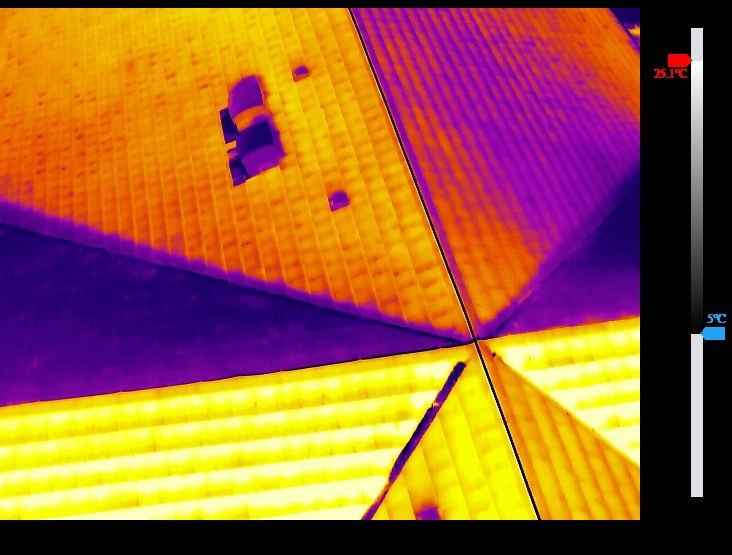
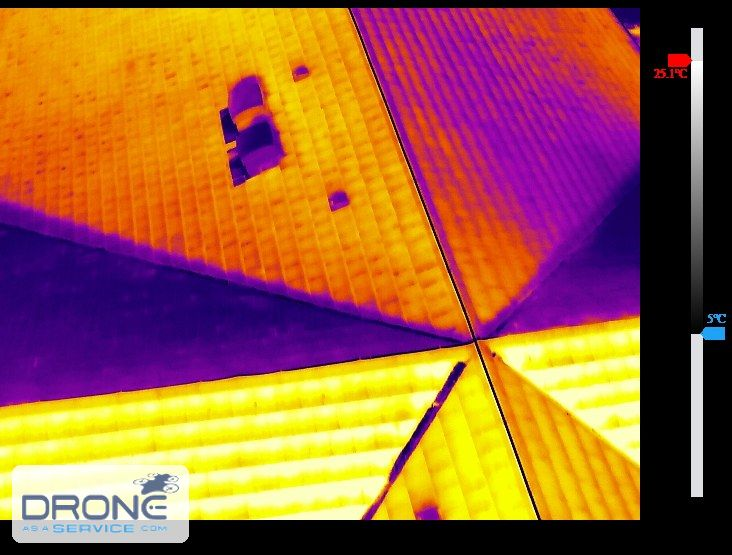
Add files via upload

Changed region(s): [[0.0, 0.827, 0.2705, 0.9802]]

diff --git a/index.html b/index.html
@@ -21,7 +21,7 @@ header .sub{font-size:12px;opacity:.85}
 .item{display:flex;gap:10px;padding:10px 16px;border-top:1px solid #eee;cursor:pointer;align-items:flex-start}
 .item:hover{background:#eef2f8}
 .num{flex:0 0 26px;height:26px;border-radius:50%;background:#c00000;color:#fff;font-weight:700;font-size:13px;display:flex;align-items:center;justify-content:center}
-.num.off{background:#8c8c8c}
+.num.off{background:#8c8c8c}.num.gr{background:#b8860b}
 .item b{font-size:13px;display:block}
 .item span{font-size:12px;color:#555}
 .status{display:inline-block;margin-top:4px;font-size:11px;padding:1px 7px;border-radius:10px;border:1px solid}
@@ -47,6 +47,14 @@ header .sub{font-size:12px;opacity:.85}
 #legend .info{margin-top:5px;color:#555}
 #legend .more{color:#1F3864;cursor:pointer;text-decoration:underline}
 #about{display:none;margin-top:6px;line-height:1.4;color:#333}
+#brand{left:50%;top:10px;transform:translateX(-50%);padding:5px 10px;z-index:700}
+#brand img{width:130px;display:block}
+.coord{font-size:12px;background:#f3f4f6;border:1px solid #e1e3e8;border-radius:6px;padding:6px 8px;margin:6px 0;line-height:1.5;color:#333}
+.coord a,.coord span.cp{color:#1F3864;cursor:pointer;text-decoration:underline;margin-right:8px}
+.coord small{display:block;color:#666;margin-top:2px}
+.cam{width:12px;height:12px;border-radius:50%;background:#1F3864;border:2px solid #fff;box-shadow:0 0 3px rgba(0,0,0,.7)}
+.lyr{margin-top:6px;display:flex;align-items:center;gap:6px;color:#333}
+.tag.cm{color:#1F3864;border-color:#1F3864}
 #north{right:12px;top:12px;text-align:center;font-weight:700;color:#1F3864;padding:6px 9px;line-height:1.1}
 #scale{right:12px;bottom:14px;padding:6px 10px}
 #scale .sb{height:6px;border:2px solid #1d1d1b;border-top:none;margin-top:3px}
@@ -58,6 +66,7 @@ header .sub{font-size:12px;opacity:.85}
 #lightbox img{max-width:92vw;max-height:84vh;border-radius:4px}
 #lightbox div{color:#fff;font-size:13px;margin-top:8px}
 @media (max-width:760px){
+ #brand{display:none}
  header{height:auto;flex-wrap:wrap;padding:8px}header .sub{display:none}
  #side{top:auto;bottom:0;width:100%;height:42%;border-right:none;border-top:1px solid #ddd}
  #map{left:0;top:84px;bottom:42%}
@@ -73,7 +82,7 @@ header .sub{font-size:12px;opacity:.85}
 <aside id="side">
   <div id="list">
     <h2>Findings</h2>
-    <p class="intro">Select a finding to see its photos and what it means. Red numbers are marked on the map; grey numbers relate to the eaves or elevations at several locations.</p>
+    <p class="intro">Select a finding to see its photos and what it means. Red rings are findings; blue dots show where the drone was when each photo was taken; the yellow dashed line is the approximate route of the ground photos. Grey numbers relate to the eaves or elevations at several locations and have no pin yet.</p>
     <div id="items"></div>
   </div>
   <div id="detail"></div>
@@ -82,7 +91,9 @@ header .sub{font-size:12px;opacity:.85}
   <div id="swipe"><span>&#8596;</span></div>
   <div id="legend" class="panel"><b>Surface temperature</b><div class="bar"></div><div class="ends"><span>5 °C cold</span><span>25 °C warm</span></div>
     <div class="info">Click the roof to read the temperature. <span class="more" id="moreBtn">About the readings</span></div>
+    <label class="lyr"><input type="checkbox" id="camToggle" checked> Show photo locations (blue dots)</label>
     <div id="about">Apparent surface temperatures at emissivity 0.95, captured around midday. Suitable for tiles, membrane and concrete; not reliable on metal or glass (flashings, fans, rooflights). Accuracy approx. ±2 °C, so best used to compare nearby spots. Sun-facing slopes read warmer because of the sun, not defects. White areas: no thermal coverage.</div></div>
+  <div id="brand" class="panel"><img src="logo.png" alt="Drone as a Service"></div>
   <div id="north" class="panel">N<br>&#8593;</div>
   <div id="scale" class="panel"><span id="sl">5 m</span><div class="sb" id="sbar"></div></div>
 </div>
@@ -91,7 +102,7 @@ header .sub{font-size:12px;opacity:.85}
 <script src="temps.js"></script>
 <script>
 var W=6117,H=4832,PX=0.0165;
-var ST={ok:['s-ok','Repair evidence seen'],warn:['s-warn','Repair seen – check'],bad:['s-bad','No repair evidence seen'],na:['s-na','Not verified'],info:['s-na','Condition item']};
+var ST={ok:['s-ok','Repair evidence seen'],warn:['s-warn','Repair seen – check'],bad:['s-bad','No repair evidence seen'],na:['s-na','Not verified'],info:['s-na','Condition item'],apx:['s-warn','Approximate location']};
 var T='Thermal',V='Visual';
 var FIND=[
  {n:1,t:'Valley gutters (central crossing)',s:'Relined south-east valley; disturbed tiles at its top',st:'warn',xy:[3750,2670],
@@ -123,7 +134,7 @@ var FIND=[
   b:['The light-grey membrane is consistent with the new GRP overlay and mostly reads warm (dry).','A line of cold patches near the upstand matches rust-brown stains – standing water (ponding).','An older, darker membrane at the north end carries moss; unclear whether it was included in the overlay.','A loose cable lies across the membrane.'],
   m:'Water is not draining fully from parts of the new membrane. The extent of the overlay works should be confirmed with the vendor.'},
  {n:8,t:'Penetrations, vents and lightning protection',s:'Staining and cold zone around extract fans',st:'info',xy:[3285,2835],
-  imgs:[['f8_t0049.jpg',T+' – extract fan units'],['f8_v0049.jpg',V+' – extract fan units']],
+  imgs:[['f8_t0049.jpg',T+' – extract fan units'],['f8_v0049.jpg',V+' – extract fan units'],['f8_v0128.jpg',V+' – extract fans and replaced tiles, angled view','wide']],
   b:['Heavy dark staining around the fan bases; a matching cold zone on thermal (damp, condensate or partly shade).','Tile vents appear in place; lightning protection tape appears continuous where visible.'],
   m:'The staining suggests long-term water or condensate run-off. The fan flashings should be checked close up.'},
  {n:9,t:'Stair-core windows (overview)',s:'Not identified in the survey imagery',st:'na',xy:null,loc:'Not located',
@@ -133,8 +144,38 @@ var FIND=[
  {n:'i',t:'Incidental: render cracking',s:'Outside roof scope – for information',st:'info',xy:null,loc:'Building corner below the eaves',
   imgs:[['inc_d0016.jpg',V+' – render below the eaves','wide']],
   b:['Stepped and horizontal cracks with dark staining in the render at a building corner.'],
-  m:'Outside the roof scope of this survey and not assessed.'}
+  m:'Outside the roof scope of this survey and not assessed.'},
+ {n:'G',t:'Ground photos (phone)',s:'Taken from the ground along the east and south eaves',st:'apx',xy:[4554,2826],
+  imgs:[['g_ph1.jpg',V+' – roof edge, gutter and fascia'],['g_ph4.jpg',V+' – eaves corner and downpipe'],['f6_ph7.jpg',V+' – fascia and downpipe outlet','wide']],
+  b:['Taken from the ground along the east side of the single-storey wing, its south side, and the east side of the main block\'s south arm (yellow dashed route on the map).','They show moss at the roof edge, flaking paint on the fascias and the condition of the gutters and downpipes, consistent with Findings 5 and 6.'],
+  m:'These photos support Findings 5 and 6. The route is approximate: individual photo positions were not recorded.'}
 ];
+var LL={G:[53.318271,-6.371812,708482.8,731014.6,'Approximate: the photos were taken from the ground along the dashed route, marked by the surveyor. Individual photo positions were not recorded.'],1:[53.318297,-6.372010,708469.52,731017.16],2:[53.318438,-6.371953,708472.99,731032.90],4:[53.318253,-6.372194,708457.39,731011.96],7:[53.318396,-6.371858,708479.42,731028.45],8:[53.318274,-6.372126,708461.85,731014.44]};
+var CAMS=[
+ {id:'0052',time:'12:39:39',n:1,ll:[53.318301,-6.372025,708468.52,731017.60],xy:[3689,2643],imgs:[['f1_t0052.jpg',T+' – south-east valley'],['f1_v0052.jpg',V+' – south-east valley']]},
+ {id:'0136 (12:41)',time:'12:41:08',n:1,ll:[53.318263,-6.372142,708460.82,731013.20],xy:[3223,2910],imgs:[['f1_t0136b.jpg',T+' – central crossing'],['f1_v0136b.jpg',V+' – central crossing']]},
+ {id:'0048',time:'12:13:28',n:2,ll:[53.318492,-6.371864,708478.76,731039.10],xy:[4310,1341],imgs:[['f2_v0048.jpg',V+' – pitched-to-flat junction','wide']]},
+ {id:'0136 (12:14)',time:'12:14:58',n:4,ll:[53.318334,-6.372604,708429.86,731020.39],xy:[1346,2474],imgs:[['f4_t0136a.jpg',T+' – west wing slope'],['f4_v0136a.jpg',V+' – west wing slope']]},
+ {id:'0118',time:'12:14:40',n:7,ll:[53.318401,-6.371903,708476.39,731028.91],xy:[4167,1958],imgs:[['f7_t0118.jpg',T+' – flat roof, north section'],['f7_v0118.jpg',V+' – flat roof']]},
+ {id:'0164',time:'12:15:27',n:7,ll:[53.318379,-6.371832,708481.18,731026.57],xy:[4457,2100],imgs:[['f7_t0164.jpg',T+' – flat roof'],['f7_v0164.jpg',V+' – flat roof']]},
+ {id:'0049',time:'12:39:36',n:8,ll:[53.318291,-6.372143,708460.68,731016.31],xy:[3214,2722],imgs:[['f8_t0049.jpg',T+' – extract fan units'],['f8_v0049.jpg',V+' – extract fan units']]},
+ {id:'0003',time:'12:53:22',n:3,zoom:true,ll:[53.318575,-6.372612,708428.72,731047.16],xy:[1277,852],imgs:[['f3_d0003.jpg',V+' – hip end','wide']]},
+ {id:'0010',time:'13:09:58',n:3,zoom:true,ll:[53.318306,-6.372869,708412.29,731016.88],xy:[281,2687],imgs:[['f6_d0010.jpg',V+' – hip end','wide']]},
+ {id:'0016',time:'13:13:39',n:'i',zoom:true,ll:[53.318059,-6.372190,708458.17,730990.44],xy:[3062,4290],imgs:[['inc_d0016.jpg',V+' – render below the eaves','wide']]},
+ {id:'0020',time:'13:16:12',n:6,zoom:true,ll:[53.318078,-6.371811,708483.34,730993.11],xy:[4587,4128],imgs:[['f3_d0020.jpg',V+' – gutter corner and hip end','wide']]},
+ {id:'0022',time:'13:16:32',n:5,zoom:true,ll:[53.318078,-6.371812,708483.27,730993.10],xy:[4583,4128],imgs:[['f5_d0022.jpg',V+' – fascia and soffit','wide']]},
+ {id:'0023',time:'13:16:56',n:5,zoom:true,ll:[53.318085,-6.371817,708482.95,730993.91],xy:[4564,4079],imgs:[['f5_d0023.jpg',V+' – fascia beside a downpipe','wide']]},
+ {id:'0006',time:'12:12:45',n:2,ll:[53.318579,-6.372174,708457.92,731048.27],xy:[3047,785],imgs:[['f2_v0006.jpg',V+' – north projection','wide']]},
+ {id:'0309',time:'12:49:45',n:9,ll:[53.318297,-6.371674,708491.89,731017.69],xy:[5106,2638],imgs:[['f9_v0309.jpg',V+' – arched gable window, courtyard elevation','wide']]},
+ {id:'0092 (12:40)',time:'12:40:20',n:4,ll:[53.318208,-6.372087,708464.64,731007.19],xy:[3454,3274],imgs:[['f4_v0092.jpg',V+' – replaced tiles near the fans (top right)','wide']]},
+ {id:'0128 (12:41)',time:'12:41:00',n:8,ll:[53.318087,-6.372155,708460.40,730993.63],xy:[3197,4096],imgs:[['f8_v0128.jpg',V+' – extract fans and replaced tiles, angled view','wide']]}
+];
+function coordBox(ll,label,note){
+  var la=ll[0].toFixed(6),lo=ll[1].toFixed(6);
+  return '<div class="coord"><b>'+label+'</b><br>WGS84: '+la+', '+lo+'<br>ITM: E '+ll[2].toFixed(1)+' · N '+ll[3].toFixed(1)
+   +'<br><a href="https://www.google.com/maps?q='+la+','+lo+'&t=k" target="_blank" rel="noopener">Open in Google Maps</a><span class="cp" data-c="'+la+', '+lo+'">Copy coordinates</span>'+(note?'<small>'+note+'</small>':'')+'</div>';}
+function wireCopy(el){el.querySelectorAll('.cp').forEach(function(c){c.onclick=function(){
+  if(navigator.clipboard){navigator.clipboard.writeText(c.dataset.c);c.textContent='Copied';setTimeout(function(){c.textContent='Copy coordinates'},1500);}}});}
 var map=L.map('map',{crs:L.CRS.Simple,minZoom:-4,maxZoom:2,zoomSnap:0.25,attributionControl:false,zoomControl:true});
 var bounds=[[0,0],[H,W]];
 map.createPane('thermalPane');map.getPane('thermalPane').style.zIndex=410;
@@ -144,20 +185,42 @@ map.fitBounds(bounds);map.setMaxBounds([[-H*0.3,-W*0.3],[H*1.3,W*1.3]]);
 function ll(x,y){return[H-y,x];}
 var markers={};
 FIND.forEach(function(f){if(!f.xy)return;
-  var m=L.circleMarker(ll(f.xy[0],f.xy[1]),{radius:9,color:'#c00000',weight:3,fillColor:'#fff',fillOpacity:.3}).addTo(map)
-   .bindTooltip('<span class="tag">Finding '+f.n+'</span>',{permanent:true,direction:'top',offset:[0,-8],className:'lbl',opacity:1});
+  var m=L.circleMarker(ll(f.xy[0],f.xy[1]),{radius:9,color:(f.n==='G'?'#d4a000':'#c00000'),weight:3,fillColor:'#fff',fillOpacity:.3}).addTo(map)
+   .bindTooltip('<span class="tag">'+(f.n==='G'?'Ground photos':'Finding '+f.n)+'</span>',{permanent:true,direction:'top',offset:[0,-8],className:'lbl',opacity:1});
   m.on('click',function(e){L.DomEvent.stopPropagation(e);show(f.n);});markers[f.n]=m;});
+var routePts=[[5040, 1260], [5106, 1515], [5211, 2190], [5283, 2715], [4122, 2925], [4002, 2925], [4059, 3300], [4152, 3891]].map(function(g){return ll(g[0],g[1]);});
+L.polyline(routePts,{color:'#f5c400',weight:4,opacity:.95,dashArray:'9 6'}).addTo(map)
+ .bindTooltip('Ground photos – approximate route',{sticky:true})
+ .on('click',function(e){L.DomEvent.stopPropagation(e);show('G');});
+var camLayer=L.layerGroup().addTo(map);
+CAMS.forEach(function(c){
+  var m=L.marker(ll(c.xy[0],c.xy[1]),{icon:L.divIcon({className:'',html:'<div class="cam"></div>',iconSize:[12,12]})})
+   .bindTooltip('Photo '+c.id+' · '+c.time,{direction:'top',offset:[0,-6]}).addTo(camLayer);
+  m.on('click',function(e){L.DomEvent.stopPropagation(e);showCam(c);});});
+document.getElementById('camToggle').onchange=function(){if(this.checked)camLayer.addTo(map);else map.removeLayer(camLayer);};
+function showCam(c){var el=document.getElementById('detail');
+  var pics=c.imgs.map(function(i){return '<figure class="'+(i[2]||'')+'"><img src="img/'+i[0]+'" alt="'+i[1]+'" data-cap="'+i[1]+'"><figcaption>'+i[1]+'</figcaption></figure>'}).join('');
+  el.innerHTML='<span class="back">&larr; All findings</span><h3>Photo '+c.id+'</h3><div class="loc">Taken 29 Oct 2026, '+c.time+' · '+(c.n==='i'?'incidental observation':'part of Finding '+c.n)+'</div>'
+   +coordBox(c.ll,'Drone position when the photo was taken',c.zoom?'GPS position of the aircraft. The camera was zoomed in, so the photographed spot can be 10–30 m from this point, in the direction the camera was facing.':'GPS position of the aircraft. For a straight-down photo the spot photographed is within a few metres of this point; for an angled view it can be up to about 30 m away.')
+   +'<div class="pics">'+pics+'</div><div class="item" style="padding:8px 0;border:0"><span class="status s-na" id="gof" style="cursor:pointer">Go to '+(c.n==='i'?'incidental observation':'Finding '+c.n)+' &rarr;</span></div>';
+  document.getElementById('list').style.display='none';el.style.display='block';document.getElementById('side').scrollTop=0;
+  el.querySelector('.back').onclick=function(){el.style.display='none';document.getElementById('list').style.display='block';};
+  document.getElementById('gof').onclick=function(){show(c.n);};wireCopy(el);
+  el.querySelectorAll('img').forEach(function(im){im.onclick=function(){openLB(im.src,im.dataset.cap)}});
+  map.flyTo(ll(c.xy[0],c.xy[1]),0,{duration:.6});}
 var items=document.getElementById('items');
 FIND.forEach(function(f){var d=document.createElement('div');d.className='item';
-  d.innerHTML='<div class="num'+(f.xy?'':' off')+'">'+f.n+'</div><div><b>'+f.t+'</b><span>'+f.s+'</span><br><span class="status '+ST[f.st][0]+'">'+ST[f.st][1]+'</span></div>';
+  d.innerHTML='<div class="num'+(f.xy?'':' off')+(f.n==='G'?' gr':'')+'">'+f.n+'</div><div><b>'+f.t+'</b><span>'+f.s+'</span><br><span class="status '+ST[f.st][0]+'">'+ST[f.st][1]+'</span></div>';
   d.onclick=function(){show(f.n);};items.appendChild(d);});
 function show(n){var f=FIND.filter(function(x){return x.n==n})[0],el=document.getElementById('detail');
   var pics=f.imgs.map(function(i){return '<figure class="'+(i[2]||'')+'"><img src="img/'+i[0]+'" alt="'+i[1]+'" data-cap="'+i[1]+'"><figcaption>'+i[1]+'</figcaption></figure>'}).join('');
-  el.innerHTML='<span class="back">&larr; All findings</span><h3>'+(f.n==='i'?'':'Finding '+f.n+' – ')+f.t+'</h3>'
-   +'<div class="loc">'+(f.xy?'Marked on the map':'Location: '+f.loc+' (not marked on the map)')+' · <span class="status '+ST[f.st][0]+'">'+ST[f.st][1]+'</span></div>'
+  el.innerHTML='<span class="back">&larr; All findings</span><h3>'+(f.n==='i'||f.n==='G'?'':'Finding '+f.n+' – ')+f.t+'</h3>'
+   +'<div class="loc"><span class="status '+ST[f.st][0]+'">'+ST[f.st][1]+'</span></div>'
+   +(LL[f.n]?coordBox(LL[f.n],f.n==='G'?'Approximate location':'Location of this finding',LL[f.n][4]||'Position read from the georeferenced orthomosaic.'):'<div class="coord"><b>Location:</b> '+f.loc+'<small>No coordinates recorded for these photos yet. Coordinates can be added from the original photo GPS.</small></div>')
    +'<div class="pics">'+pics+'</div><ul>'+f.b.map(function(x){return '<li>'+x+'</li>'}).join('')+'</ul><div class="mean"><b>What this means:</b> '+f.m+'</div>';
   document.getElementById('list').style.display='none';el.style.display='block';document.getElementById('side').scrollTop=0;
   el.querySelector('.back').onclick=function(){el.style.display='none';document.getElementById('list').style.display='block';};
+  wireCopy(el);
   el.querySelectorAll('img').forEach(function(im){im.onclick=function(){openLB(im.src,im.dataset.cap)}});
   if(f.xy)map.flyTo(ll(f.xy[0],f.xy[1]),0,{duration:.6});}
 var lb=document.getElementById('lightbox');
@@ -195,7 +258,7 @@ sw.addEventListener('touchstart',function(e){drag=true;map.dragging.disable();e.
 window.addEventListener('mousemove',mv);window.addEventListener('touchmove',mv,{passive:false});
 function up(){if(drag){drag=false;map.dragging.enable();}}
 window.addEventListener('mouseup',up);window.addEventListener('touchend',up);
-['swipe','legend','north','scale'].forEach(function(id){L.DomEvent.disableClickPropagation(document.getElementById(id));});
+['swipe','legend','north','scale','brand'].forEach(function(id){L.DomEvent.disableClickPropagation(document.getElementById(id));});
 setMode('swipe');
 </script>
 </body>
